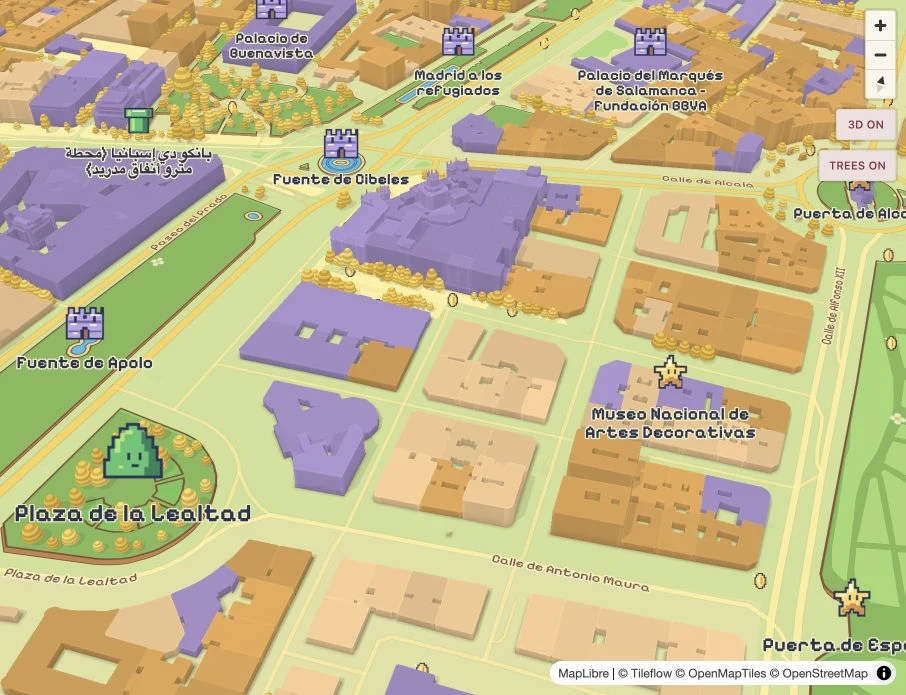
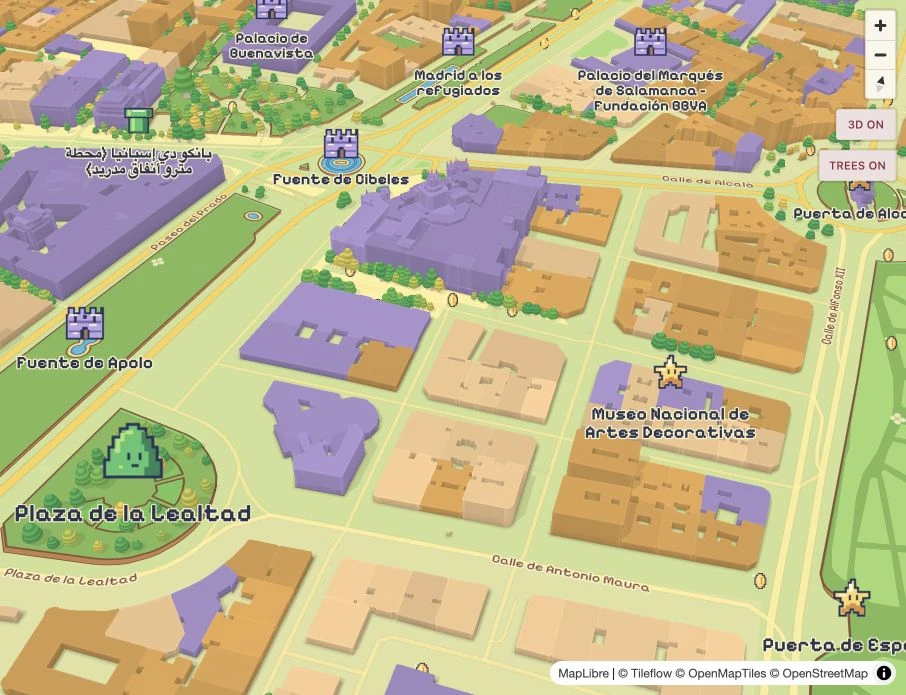
Keep bell trees predominantly green with yellow accents

diff --git a/maps/super-tile-world/index.ts b/maps/super-tile-world/index.ts
@@ -1106,7 +1106,7 @@ export const superTileWorld = bindCommunityMapTheme(
           finish: "smooth",
           edges: 0,
           barkColor: "#EBDDC4",
-          broadleafColors: ["#EDB432", "#F6C23D", "#FFD24D", "#FFDC62"],
+          broadleafColors: ["#3AA95A", "#4DB65B", "#6DC351", "#FFD24D"],
           coniferColors: ["#28875C", "#3AA56A", "#65C47A"],
           palmColors: ["#3BA963", "#69C766", "#9AD974"],
           hedgeColors: ["#3AA15A", "#64BD61"],

diff --git a/maps/super-tile-world/design.md b/maps/super-tile-world/design.md
@@ -9,8 +9,8 @@ The map declares its own icons, fonts and models. All artwork belongs to this ma
 Six original GLB forms have smooth normals and matching near/far geometry: a bell crown,
 a broader bell, a taller bell, a three-tier evergreen, a narrow column and an arched palm.
 The bell profile follows the domed top, flared lower rim, broad horizontal bands and pale trunk
-visible in Super Bell Hill gameplay. Golden foliage makes that reference immediately readable;
-conifers and palms retain green palettes. All geometry is authored here, without extracted models.
+visible in Super Bell Hill screenshots. Foliage is predominantly green, with lime-to-yellow
+accents among the bell crowns; conifers and palms retain green palettes. All geometry is authored here, without extracted models.
 They use the SDK's instanced vegetation renderer and shared sunlight/shadows. Near meshes use
 120–368 triangles; far meshes use 60–120. There are no leaf textures or billboard planes.
 See [model sources](assets/models/README.md) for reproducible generation and budgets.

diff --git a/maps/super-tile-world/assets/models/README.md b/maps/super-tile-world/assets/models/README.md
@@ -25,5 +25,5 @@ the bell silhouette, tier or frond arrangement instead of reverting to generic t
 The bell forms were studied from [Super Bell Hill gameplay](https://www.youtube.com/watch?v=k9zyhiBKqw4)
 and [in-game screenshots](https://www.nintendocastle.com/super-mario-3d-world-stamps/world-1/):
 a continuous domed crown, a flared collar, alternating horizontal bands and a pale trunk.
-The reference images and game models are not included. The map paints the broadleaf forms gold
+The reference images and game models are not included. The map gives broadleaf forms a predominantly green palette with occasional yellow accents,
 and keeps evergreen and palm forms green.
